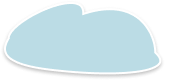
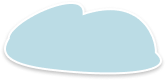
sound 11:25

diff --git a/FlipCard/Assets/UI/Scripts/UIManager.cs b/FlipCard/Assets/UI/Scripts/UIManager.cs
@@ -31,6 +31,7 @@ public class UIManager : MonoBehaviour
     {
         optionWindow.SetActive(true);
         AudioManager.instance.PlaySfx(buttonClickSfx);
+        AudioManager.instance.ConnectSlider();
     }
 
     public void CloseOption()
@@ -49,6 +50,26 @@ public class UIManager : MonoBehaviour
     public void StageToStart()
     {
         SceneManager.LoadScene("StartTitle 1");
+        AudioManager.instance.PlaySfx(buttonClickSfx);
+    }
+
+    public void QuitGame()
+    {
+        AudioManager.instance.PlaySfx(buttonClickSfx);
+        Application.Quit();
+#if UNITY_EDITOR
+        UnityEditor.EditorApplication.isPlaying = false;
+#endif
+    }
+
+    public void RetryBtn()
+    {
+        SceneManager.LoadScene("StartTitle 1");
+        AudioManager.instance.PlaySfx(buttonClickSfx);
+    }
+
+    public void StageToHiddenStage()
+    {
         AudioManager.instance.PlaySfx(buttonClickSfx);
     }
 

diff --git a/FlipCard/Assets/Flip/Scripts/RetryButton.cs b/FlipCard/Assets/Flip/Scripts/RetryButton.cs
@@ -5,9 +5,20 @@ using UnityEngine.SceneManagement;
 
 public class RetryButton : MonoBehaviour
 {
+    public AudioClip buttonClickSfx;
+
     public void Retry()
     {
+        StartCoroutine(RetrySound());
+    }
+
+    public IEnumerator RetrySound()
+    {
+        AudioManager.instance.PlaySfx(buttonClickSfx);
+        yield return new WaitForSeconds(0.15f);
+        Debug.Log("씬 이동 직전");
         SceneManager.LoadScene("StartTitle 1");
+        Debug.Log("씬 이동 직후");
     }
 
     public void SelectStage(int stageNum)
